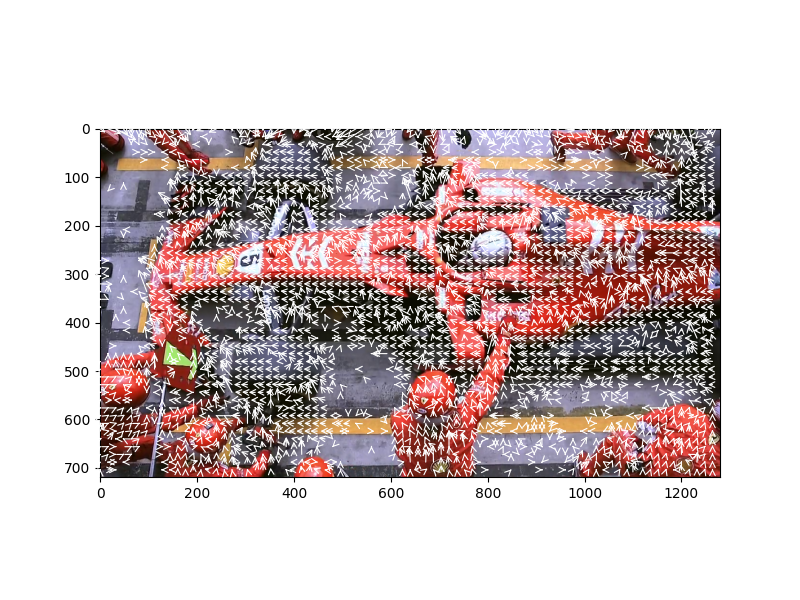
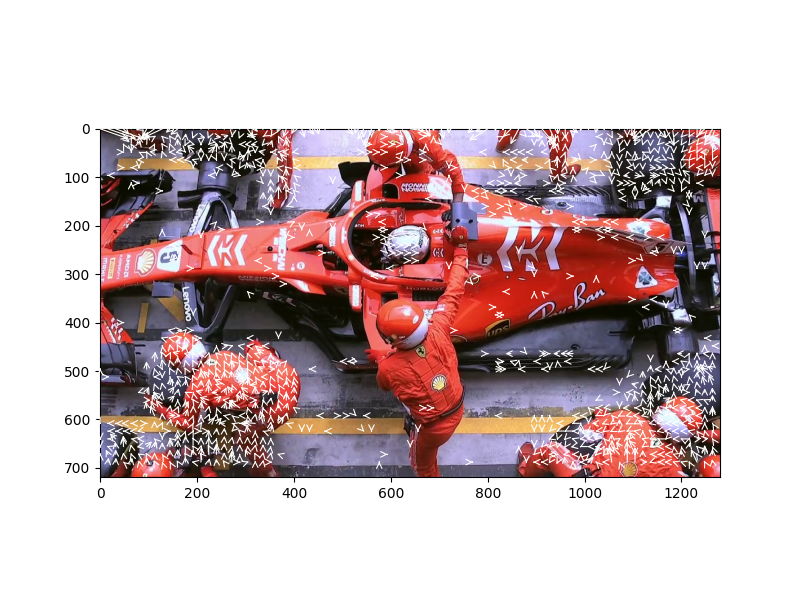
Huffman

diff --git a/TIPE/huffman.py b/TIPE/huffman.py
@@ -1,13 +1,88 @@
-from huffman import HuffmanCodec
+# Fonction pour récupérer la table des codes et le texte compressé
+def compress(text):
+    # Définition de la classe NodeTree
+    class NodeTree(object):
+        def __init__(self, left=None, right=None):
+            self.left = left
+            self.right = right
 
-# Exemple de texte
-text = "hello world"
+        def children(self):
+            return (self.left, self.right)
 
-# Compression
-codec = HuffmanCodec.from_data(text)
-encoded_text = codec.encode(text)
-print(f"Encoded Text: {encoded_text}")
+        def nodes(self):
+            return (self.left, self.right)
 
-# Décompression
-decoded_text = codec.decode(encoded_text)
-print(f"Decoded Text: {decoded_text}")
+        def __str__(self):
+            return '%s_%s' % (self.left, self.right)
+
+    # Fonction pour créer l'arbre de Huffman
+    def huffman_code_tree(node, left=True, binString=''):
+        if type(node) is str:
+            return {node: binString}
+        (l, r) = node.children()
+        d = dict()
+        d.update(huffman_code_tree(l, True, binString + '0'))
+        d.update(huffman_code_tree(r, False, binString + '1'))
+        return d
+
+    # Calcul des fréquences
+    freq = {}
+    for c in text:
+        if c in freq:
+            freq[c] += 1
+        else:
+            freq[c] = 1
+
+    freq = sorted(freq.items(), key=lambda x: x[1], reverse=True)
+    nodes = freq
+
+    # Construction de l'arbre de Huffman
+    while len(nodes) > 1:
+        (key1, c1) = nodes[-1]
+        (key2, c2) = nodes[-2]
+        nodes = nodes[:-2]
+        node = NodeTree(key1, key2)
+        nodes.append((node, c1 + c2))
+        nodes = sorted(nodes, key=lambda x: x[1], reverse=True)
+
+    # Création de la table des codes de Huffman
+    huffmanCode = huffman_code_tree(nodes[0][0])
+
+    # Encodage du texte
+    compressed_text = ''.join([huffmanCode[char] for char in text])
+
+    return huffmanCode, compressed_text
+
+# Fonction pour décompresser à partir du code Huffman
+def decompress(huffmanCode, compressed_text):
+    decoded_text = ''
+    current_code = ''
+    for bit in compressed_text:
+        current_code += bit
+        for char, code in huffmanCode.items():
+            if code == current_code:
+                decoded_text += char
+                current_code = ''
+                break
+
+    return decoded_text
+
+
+
+if __name__ == "__main__":
+    # Exemple d'utilisation
+    text = 'BCAADDDCCACACAC'
+    huffmanCode, compressed_text = compress(text)
+    
+    print('Char | Huffman code')
+    print('----------------------')
+    for char, code in huffmanCode.items():
+        print('%-4r |%12s' % (char, code))
+
+    # print('\nOriginal Text:', text)
+    # print('\nOriginal Text Bin:', ''.join(format(ord(char), '08b') for char in text))
+    # print('Compressed Text Bin:', compressed_text)
+
+    # Décompression
+    decoded_text = decompress(huffmanCode, compressed_text)
+    print('Decoded Text:', decoded_text)

diff --git a/TIPE/main - Copie.py b/TIPE/main - Copie.py
@@ -7,9 +7,7 @@ from copy import deepcopy
 import matplotlib.pyplot as plt
 from scipy.fftpack import dct, idct
 import time
-import sys
 
-from huffman import compress, decompress
 
 
 class bcolors:
@@ -1120,64 +1118,6 @@ def reconstructImage(img1, vectors):
     return reconstructed_image
 
 
-def array_to_string(array):
-    return ';'.join(','.join(map(str, tup)) for tup in array)
-
-def string_to_array(text):
-    if not text:
-        return []
-
-    tuple_strings = text.split(';')
-    array = [tuple(map(float, tup.split(','))) for tup in tuple_strings]
-    return array
-
-
-def vectors2Str(vectors):
-    txt = ""
-    nb_zero = 0
-    for (x, y) in vectors:
-        if x == 0 and y == 0:
-            nb_zero += 1
-        else:
-            if nb_zero != 0:
-                # on ajoute les zeros trouvés avant
-                txt += str(nb_zero)+";"
-                nb_zero = 0
-
-            txt += str(x) + "," + str(y) + ";"
-    return txt
-
-
-def str2Vectors(txt):
-    temp = txt.split(";")
-    vectors = np.ones((nombre_blocs, 2))
-
-    i = 0
-
-    for elemnt in temp:
-        if ',' in elemnt:
-            # doublet de valeurs
-            x, y = elemnt.split(",")
-            vectors[i] = (float(x), float(y))
-            i += 1
-
-        else:
-            # print(int(elemnt))
-            # plusieurs zero / ou un
-            nb_zero = int(elemnt)
-            for k in range(nb_zero):
-                vectors[i] = (0., 0.)
-                i +=1
-
-
-
-    return vectors
-
-
-
-
-
-
 
 
 
@@ -1272,51 +1212,24 @@ if __name__ == "__main__":
 
     
 
-    vectors = getVectorsField(img1, img2, display=False)
-    # vectors = np.ones((nombre_blocs, 2))*64
+    vectors = getVectorsField(img1, img2, display=True)
+    # vectors = np.ones((nombre_blocs, 2))*8
 
     reconstructed_image = reconstructImage(img1, vectors)
 
 
-    # displayImage(reconstructed_image, [ref])
+    displayImage(reconstructed_image, [ref])
     
     residu = img2-reconstructed_image
 
-    # displayImage(residu)
+    displayImage(residu)
 
     print(f"MSE du résidu: {MSE(img2, residu)[0]}")
     print(f"PSNR du résidu: {PSNR(img2, residu)[0]}")
 
-    # displayImage(reconstructed_image+residu, "reconstructed_image+residu")
+    displayImage(reconstructed_image+residu)
 
 
 
-
-
-
-    print("\n"+"******"*10)
-    print("******"*10)
-
-     # = array_to_string(vectors)
-    vectors_txt = vectors2Str(vectors)
-    print(vectors_txt)
 
     print("\n"*3)
-
-    vectors_rec = str2Vectors(vectors_txt)
-    print(vectors_rec)
-
-    # huffmanCode, compressed_text = compress(vectors_txt)
-    # print('Char | Huffman code')
-    # print('----------------------')
-    # for char, code in huffmanCode.items():
-    #     print('%-4r |%12s' % (char, code))
-
-
-    # print(sys.getsizeof(vectors))
-    # print(sys.getsizeof(''.join(format(ord(char), '08b') for char in vectors_txt)))
-    # print(sys.getsizeof(compressed_text))
-
-    print("\n"*3)
-
-    # print(string_to_array(vectors_txt))
